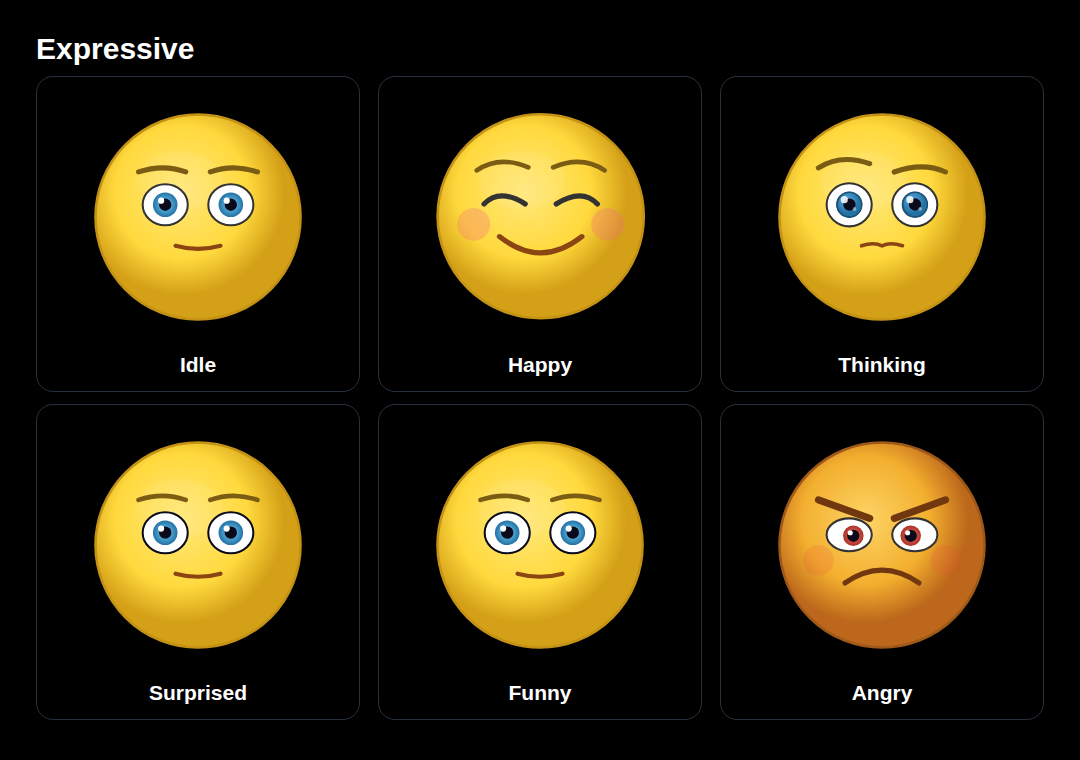
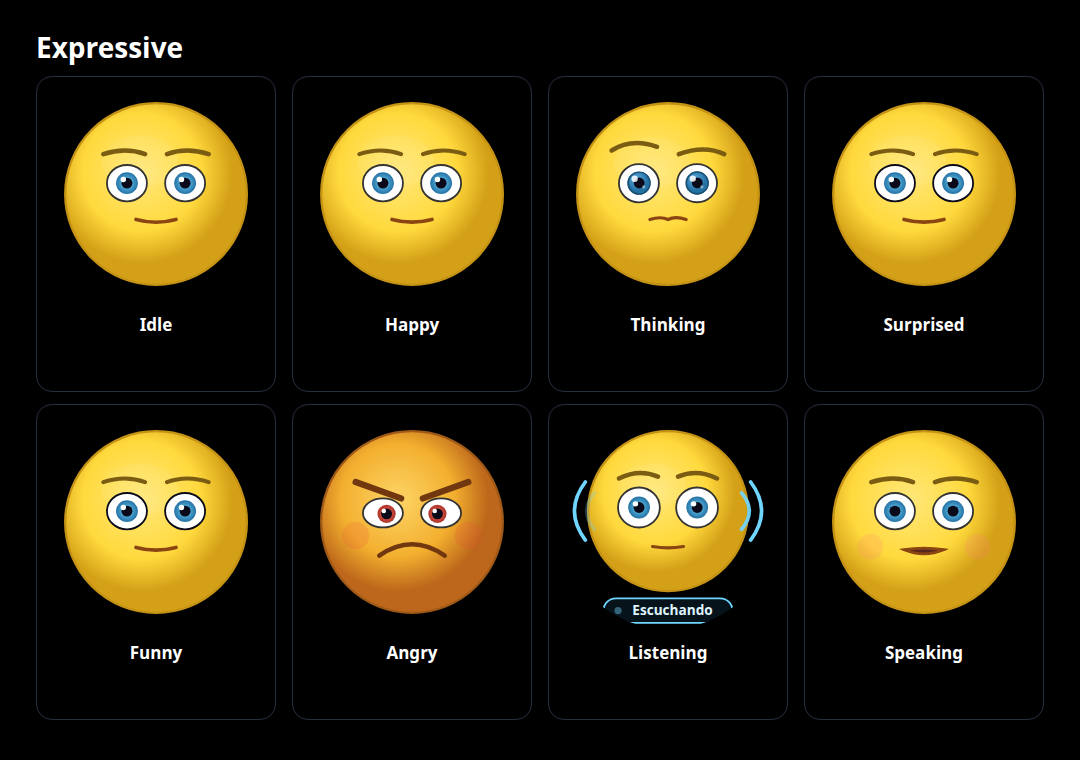
feat: add listening state to all skins

diff --git a/demo/index.html b/demo/index.html
@@ -173,7 +173,7 @@
   <header>
     <p class="eyebrow">ESP32-S3 · Colección visual</p>
     <h1>Las caras de Pericles</h1>
-    <p class="intro">Cinco modelos intercambiables y siete estados animados. Filtrá una emoción, compará estilos y reiniciá las animaciones antes de elegir la cara del dispositivo.</p>
+    <p class="intro">Cinco modelos intercambiables y ocho estados animados. Filtrá una emoción, compará estilos y reiniciá las animaciones antes de elegir la cara del dispositivo.</p>
   </header>
 
   <main>
@@ -185,6 +185,7 @@
       <button type="button" data-state="surprised" aria-pressed="false">Surprised</button>
       <button type="button" data-state="funny" aria-pressed="false">Funny</button>
       <button type="button" data-state="angry" aria-pressed="false">Angry</button>
+      <button type="button" data-state="listening" aria-pressed="false">Listening</button>
       <button type="button" data-state="speaking" aria-pressed="false">Speaking</button>
       <button type="button" id="replay">Reiniciar</button>
       <a class="manual-link" href="https://github.com/aborra1972/pericles/blob/main/USER_MANUAL.md">Manual de uso</a>
@@ -196,7 +197,7 @@
 
   <script>
     const skins = ['pixel', 'expressive', 'windswept', 'knit-beanie', 'backwards-cap'];
-    const states = ['idle', 'happy', 'thinking', 'surprised', 'funny', 'angry', 'speaking'];
+    const states = ['idle', 'happy', 'thinking', 'surprised', 'funny', 'angry', 'listening', 'speaking'];
     const animatedPixelStates = new Set(['happy', 'thinking', 'surprised', 'funny', 'angry']);
     const gallery = document.querySelector('#gallery');
 

diff --git a/skins/README.md b/skins/README.md
@@ -8,8 +8,8 @@ The finalized collection contains five interchangeable visual styles for the rou
 - `knit-beanie/` combines a side fringe with a ribbed wool beanie and restrained pom follow-through.
 - `backwards-cap/` combines a front fringe with a backwards cap whose rear opening, strap, and rear visor remain readable at display size.
 
-Standard mood filenames are `idle.svg`, `happy.svg`, `thinking.svg`, `surprised.svg`, `funny.svg`, and `angry.svg`. Complete selectable skins also provide `speaking.svg`. A skin may provide `all-moods.svg` as a visual overview and style-specific variants such as `happy-anim.svg`.
+Standard mood filenames are `idle.svg`, `happy.svg`, `thinking.svg`, `surprised.svg`, `funny.svg`, and `angry.svg`. Complete selectable skins also provide the operational states `listening.svg` and `speaking.svg`. The `all-moods.svg` overview shows all eight runtime states, and a skin may provide style-specific variants such as `happy-anim.svg`.
 
 Firmware should select a skin directory first, then resolve mood files relative to that directory, for example `skins/expressive/happy.svg`. This keeps mood selection independent from any particular visual style or implementation.
 
-During TTS playback, firmware switches the selected skin to `speaking.svg`. The speaking asset owns the looping phoneme-like mouth motion; normal mood assets do not chatter continuously. When TTS ends, firmware restores the mood that was active before speaking.
+When the microphone opens, firmware switches to `listening.svg`. Every listening asset combines an attentive expression, an animated input indicator, and the `Escuchando` label. During TTS playback, firmware switches to `speaking.svg`; that asset owns the looping phoneme-like mouth motion. When the interaction ends, firmware restores the mood that was active before listening or speaking.

diff --git a/USER_MANUAL.md b/USER_MANUAL.md
@@ -51,6 +51,7 @@ Todos los modelos completos ofrecen estos archivos:
 | Sorprendido | `surprised.svg` | Resultado inesperado. |
 | Gracioso | `funny.svg` | Chiste o comentario travieso. |
 | Enojado | `angry.svg` | Error o frustración controlada. |
+| Escuchando | `listening.svg` | Micrófono abierto durante una sesión. |
 | Hablando | `speaking.svg` | Reproducción de voz mediante TTS. |
 
 El modelo `pixel` también incluye variantes animadas como `happy-anim.svg`. La galería elige esas variantes automáticamente.
@@ -69,7 +70,7 @@ Ejemplo:
 skins/backwards-cap/happy.svg
 ```
 
-Durante la reproducción de voz, cambiá temporalmente a `speaking.svg`. Al finalizar, restaurá el estado que estaba activo antes de hablar.
+Al abrir el micrófono, cambiá a `listening.svg`; el asset muestra la expresión de escucha y el texto **Escuchando**. Durante la reproducción de voz, cambiá temporalmente a `speaking.svg`. Al finalizar, restaurá el estado que estaba activo antes de escuchar o hablar.
 
 ## Solución de problemas
 

diff --git a/README.md b/README.md
@@ -27,7 +27,7 @@ Su personaje está inspirado en **Pericles Addams**, de *Los Locos Addams*: trav
   <a href="PRD.md">Consultar el PRD</a>
 </p>
 
-La demo permite comparar los **cinco modelos** y filtrar sus **siete estados animados**. Se publica automáticamente desde `main` mediante GitHub Pages.
+La demo permite comparar los **cinco modelos** y filtrar sus **ocho estados animados**. Se publica automáticamente desde `main` mediante GitHub Pages.
 
 | Pixel | Expressive | Windswept | Knit beanie | Backwards cap |
 |:-----:|:----------:|:---------:|:-----------:|:-------------:|
